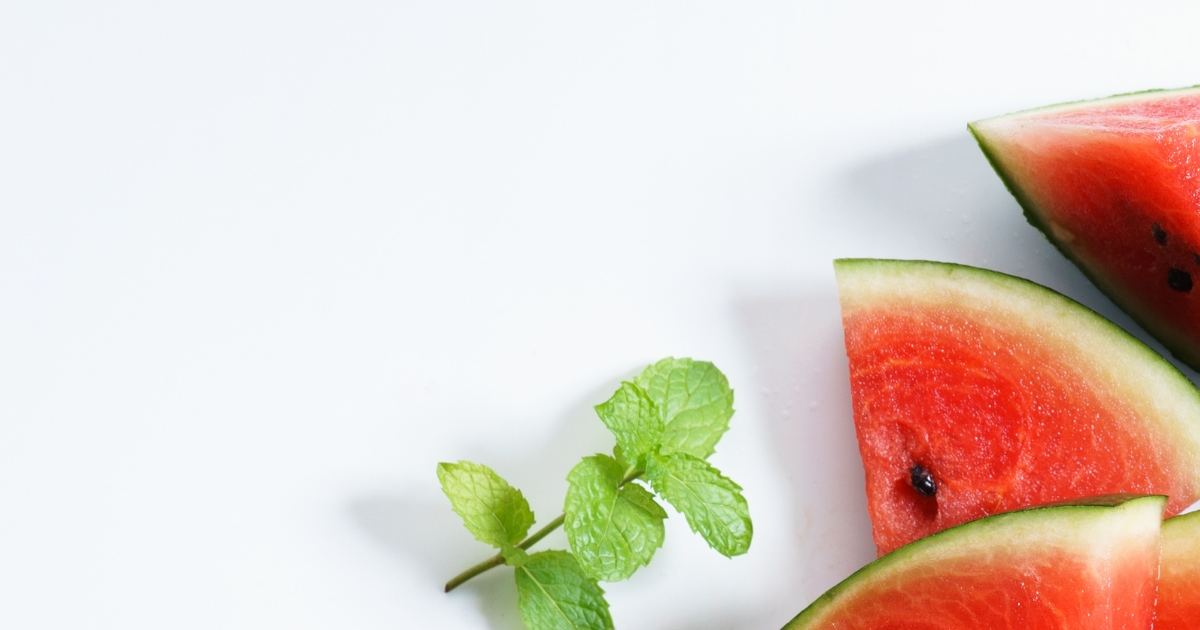
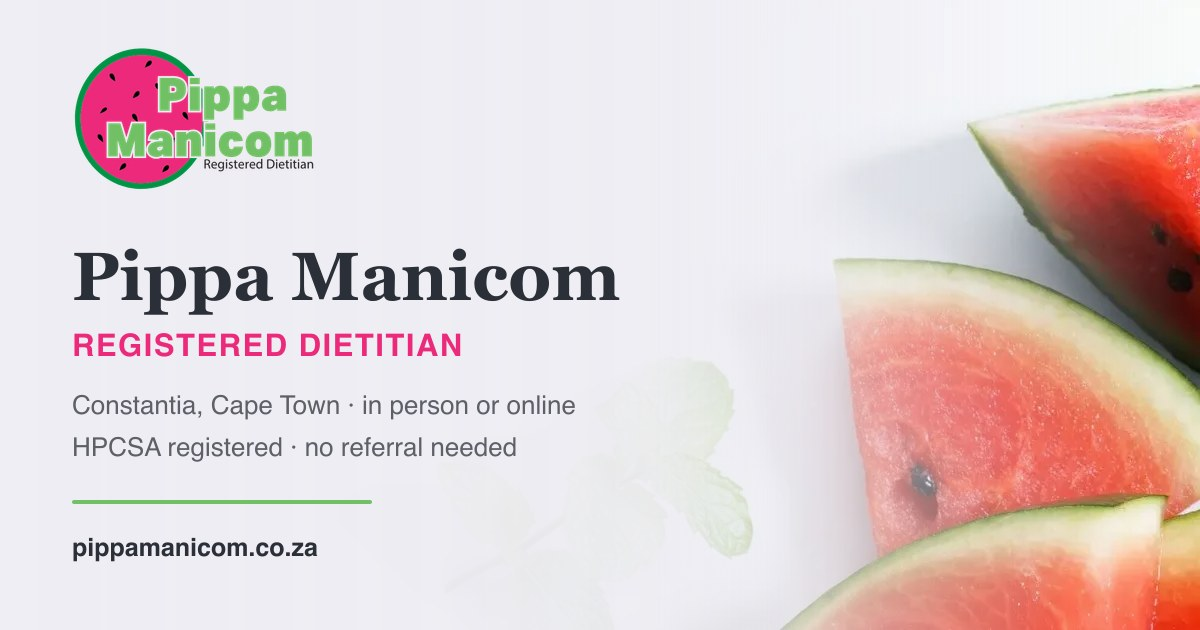
Close the SEO gaps before release
- FAQPage schema was missing "How do I book an appointment?", so six of
  the seven questions on the page were described to search engines. All
  seven are now in the markup.
- og:image was an unbranded crop of the watermelon photo, so a shared
  link showed fruit and nothing else. Replaced with a 1200x630 card
  carrying the logo, her name, "Registered Dietitian", Constantia/Cape
  Town, HPCSA registered and the domain.
- Added og:image:alt and twitter:image:alt.

Verified on the built output: one h1, every image has alt text, canonical
present, all three JSON-LD blocks parse, NAP identical between the page
and the schema, and the HTML is prerendered.

diff --git a/index.html b/index.html
@@ -40,6 +40,10 @@
     <meta property="og:image" content="https://pippamanicom.co.za/og-image.jpg" />
     <meta property="og:image:width" content="1200" />
     <meta property="og:image:height" content="630" />
+    <meta
+      property="og:image:alt"
+      content="Pippa Manicom, registered dietitian in Constantia, Cape Town - HPCSA registered, no referral needed"
+    />
     <meta name="twitter:card" content="summary_large_image" />
     <meta
       name="twitter:title"
@@ -50,6 +54,10 @@
       content="Registered dietitian in Constantia, Cape Town. Private nutrition consultations, corporate wellness & weight-loss support for the Southern Suburbs, in-person or online. HPCSA registered — book today."
     />
     <meta name="twitter:image" content="https://pippamanicom.co.za/og-image.jpg" />
+    <meta
+      name="twitter:image:alt"
+      content="Pippa Manicom, registered dietitian in Constantia, Cape Town - HPCSA registered, no referral needed"
+    />
 
     <link rel="preconnect" href="https://fonts.googleapis.com" />
     <link rel="preconnect" href="https://fonts.gstatic.com" crossorigin />
@@ -494,60 +502,68 @@
     </script>
 
     <script type="application/ld+json">
-      {
-        "@context": "https://schema.org",
-        "@type": "FAQPage",
-        "mainEntity": [
-          {
-            "@type": "Question",
-            "name": "Do I need a doctor's referral to see a dietitian in Cape Town?",
-            "acceptedAnswer": {
-              "@type": "Answer",
-              "text": "No referral is required. You can book a private consultation with Pippa Manicom directly, whether you're managing a medical condition, want to lose weight, or simply want to eat better."
-            }
-          },
-          {
-            "@type": "Question",
-            "name": "Do you offer online dietitian consultations, or only in-person in Constantia?",
-            "acceptedAnswer": {
-              "@type": "Answer",
-              "text": "Both. Consultations are available in person at Willow Road, Constantia, Cape Town, or online via video call for clients anywhere in South Africa."
-            }
-          },
-          {
-            "@type": "Question",
-            "name": "What areas of Cape Town do you service?",
-            "acceptedAnswer": {
-              "@type": "Answer",
-              "text": "Pippa is based in Constantia and regularly sees clients from Tokai, Bishopscourt, Meadowridge, Wynberg, Claremont, Kenilworth, Newlands, Rondebosch, Plumstead, Bergvliet and the wider Southern Suburbs and Cape Town area, as well as online nationwide."
-            }
-          },
-          {
-            "@type": "Question",
-            "name": "How much does a dietitian consultation cost?",
-            "acceptedAnswer": {
-              "@type": "Answer",
-              "text": "An initial consultation (60 minutes) is R750, a second consultation with an eating plan is R880, follow-up consultations are R400, and a Vitality nutrition assessment is R520."
-            }
-          },
-          {
-            "@type": "Question",
-            "name": "Is Pippa Manicom a registered dietitian?",
-            "acceptedAnswer": {
-              "@type": "Answer",
-              "text": "Yes. Pippa is registered with the Health Professions Council of South Africa (HPCSA, membership number DT0019429) and is a member of the Association of Dietetics in South Africa (ADSA)."
-            }
-          },
-          {
-            "@type": "Question",
-            "name": "What conditions can a dietitian help with?",
-            "acceptedAnswer": {
-              "@type": "Answer",
-              "text": "Pippa helps with weight management, type 2 diabetes and insulin resistance, high cholesterol, high blood pressure, arthritis and gout, fibromyalgia and chronic fatigue syndrome, IBS and reflux, pregnancy and breastfeeding nutrition, menopause and sports nutrition."
-            }
-          }
-        ]
+{
+  "@context": "https://schema.org",
+  "@type": "FAQPage",
+  "mainEntity": [
+    {
+      "@type": "Question",
+      "name": "Do I need a doctor's referral to see a dietitian in Cape Town?",
+      "acceptedAnswer": {
+        "@type": "Answer",
+        "text": "No referral is required. You can book a private consultation with Pippa Manicom directly, whether you're managing a medical condition, want to lose weight, or simply want to eat better."
       }
+    },
+    {
+      "@type": "Question",
+      "name": "Do you offer online dietitian consultations, or only in-person in Constantia?",
+      "acceptedAnswer": {
+        "@type": "Answer",
+        "text": "Both. Consultations are available in person at Willow Road, Constantia, Cape Town, or online via video call for clients anywhere in South Africa."
+      }
+    },
+    {
+      "@type": "Question",
+      "name": "What areas of Cape Town do you service?",
+      "acceptedAnswer": {
+        "@type": "Answer",
+        "text": "Pippa is based in Constantia and regularly sees clients from Tokai, Bishopscourt, Meadowridge, Wynberg, Claremont, Kenilworth, Newlands, Rondebosch, Plumstead, Bergvliet and the wider Southern Suburbs and Cape Town area, as well as online nationwide."
+      }
+    },
+    {
+      "@type": "Question",
+      "name": "How much does a dietitian consultation cost?",
+      "acceptedAnswer": {
+        "@type": "Answer",
+        "text": "An initial consultation (60 minutes) is R750, a second consultation with an eating plan is R880, follow-up consultations are R400, and a Vitality nutrition assessment is R520."
+      }
+    },
+    {
+      "@type": "Question",
+      "name": "Is Pippa Manicom a registered dietitian?",
+      "acceptedAnswer": {
+        "@type": "Answer",
+        "text": "Yes. Pippa is registered with the Health Professions Council of South Africa (HPCSA, membership number DT0019429) and is a member of the Association of Dietetics in South Africa (ADSA)."
+      }
+    },
+    {
+      "@type": "Question",
+      "name": "What conditions can a dietitian help with?",
+      "acceptedAnswer": {
+        "@type": "Answer",
+        "text": "Pippa helps with weight management, type 2 diabetes and insulin resistance, high cholesterol, high blood pressure, arthritis and gout, fibromyalgia and chronic fatigue syndrome, IBS and reflux, pregnancy and breastfeeding nutrition, menopause and sports nutrition."
+      }
+    },
+    {
+      "@type": "Question",
+      "name": "How do I book an appointment?",
+      "acceptedAnswer": {
+        "@type": "Answer",
+        "text": "Simply fill in the contact form on this page, WhatsApp or call 084 616 7000, or email hello@pippamanicom.co.za — Pippa will get back to you to confirm a time that suits you."
+      }
+    }
+  ]
+}
     </script>
     <script type="application/ld+json">
 {
